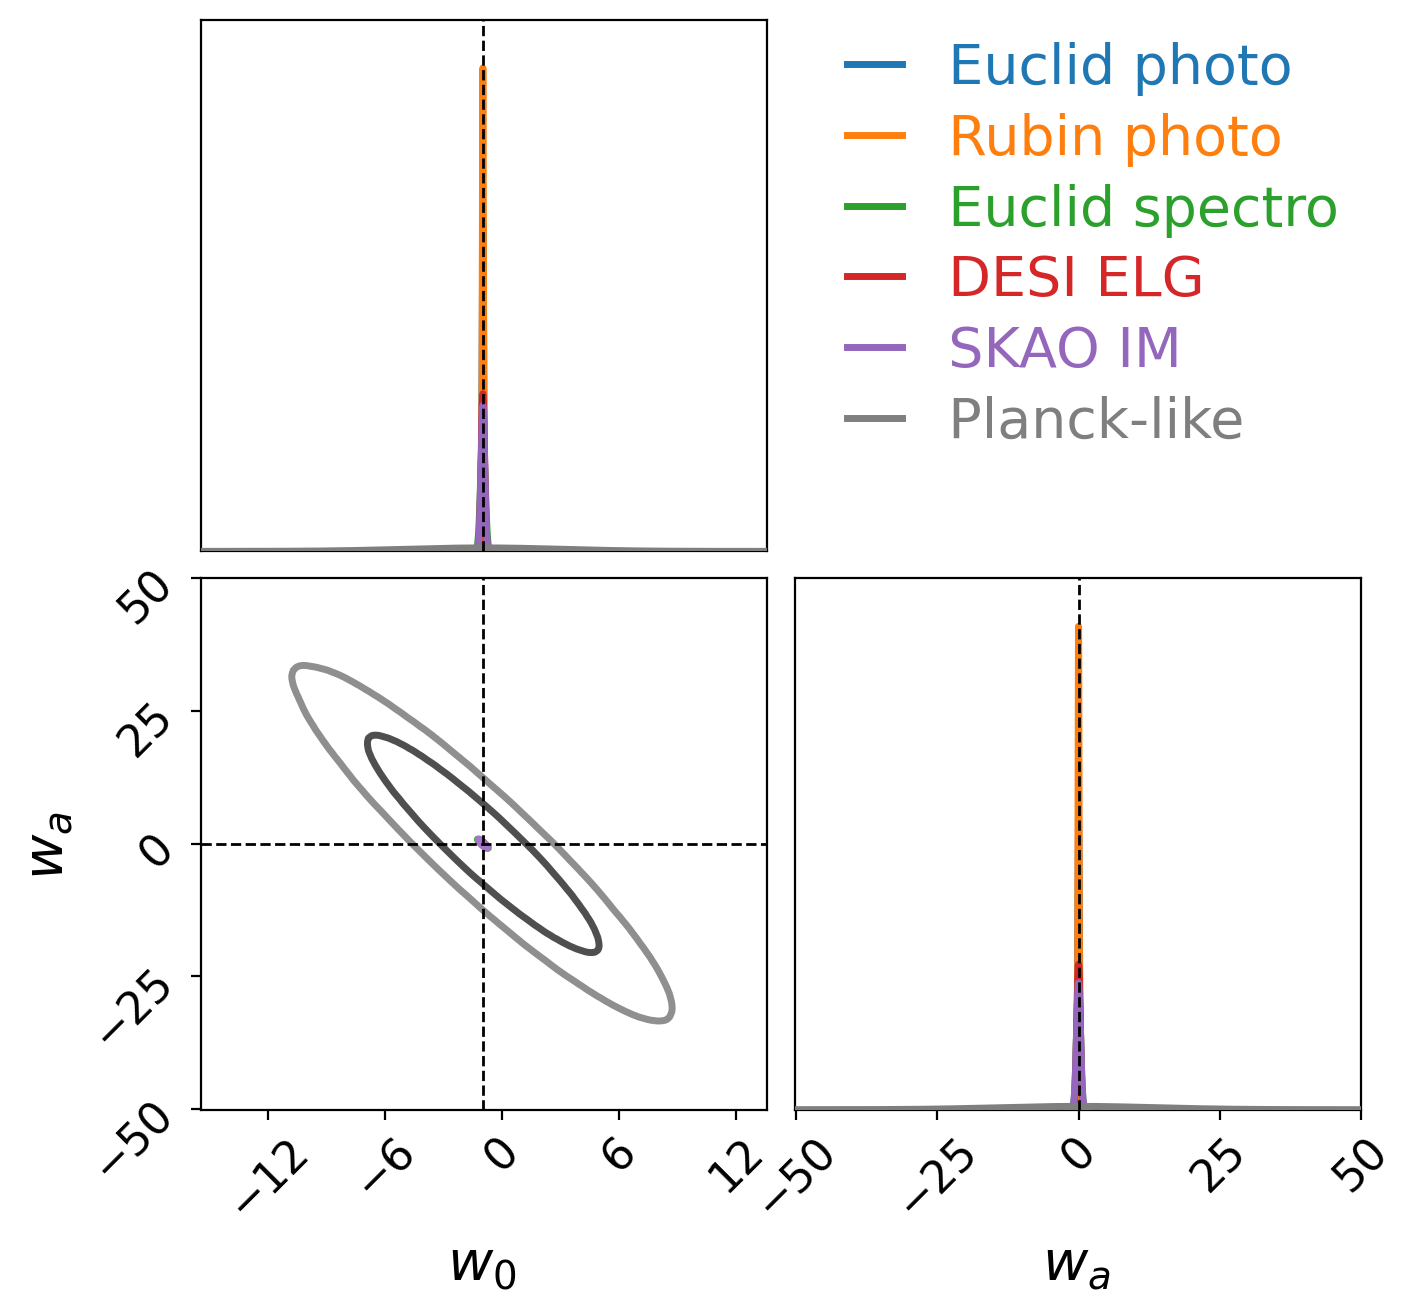
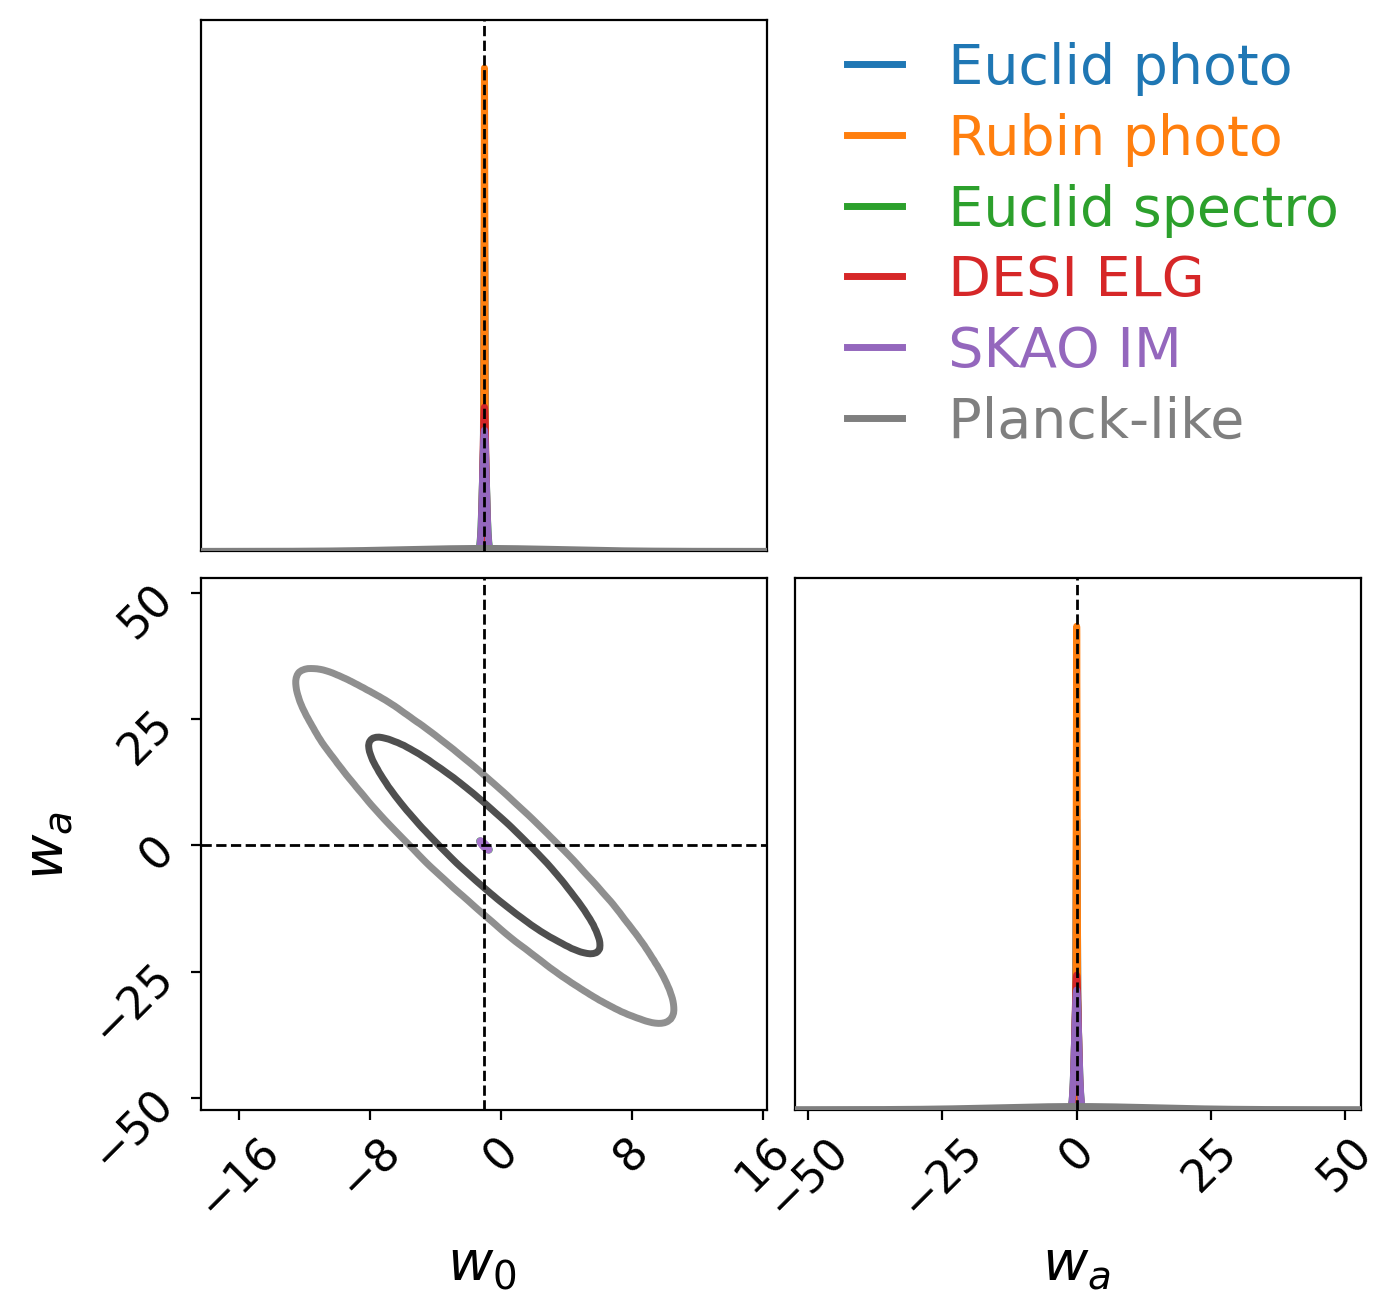
Use converged derivative step for survey forecasts and add covariance tests

diff --git a/tests/survey_covariance_test.py b/tests/survey_covariance_test.py
@@ -1,0 +1,77 @@
+"""Covariance paths for the migrated DESI and SKAO specifications."""
+
+from __future__ import annotations
+
+import numpy as np
+import pytest
+
+pytest.importorskip("symbolic_pofk")
+
+from cosmicjellyfish.fishermatrix.cosmicfish import FisherMatrix
+from cosmicjellyfish.LSSsurvey.spectro_cov import SpectroCov
+from cosmicjellyfish.LSSsurvey.spectro_obs import ComputeGalSpectro
+
+FIDUCIAL = {"Omegam": 0.32, "Omegab": 0.05, "h": 0.67, "ns": 0.96, "sigma8": 0.822}
+
+
+def _covariance(survey, observables, extra_options=None):
+    options = {"code": "symbolic", "nonlinear": True, "feedback": 0}
+    options.update(extra_options or {})
+    fisher = FisherMatrix(
+        options=options,
+        observables=observables,
+        freepars={"Omegam": 0.01},
+        fiducialpars=FIDUCIAL,
+        surveyName=survey,
+        cosmoModel="LCDM",
+    )
+    spectrum = ["I", "g"] if "IM" in observables and "GCsp" in observables else None
+    if spectrum is None:
+        spectrum = ["I", "I"] if "IM" in observables else ["g", "g"]
+    obs = ComputeGalSpectro(
+        cosmopars=fisher.fiducialcosmopars,
+        fiducial_cosmopars=fisher.fiducialcosmopars,
+        spectrobiaspars=fisher.Spectrobiaspars,
+        spectrononlinearpars=fisher.Spectrononlinpars,
+        IMbiaspars=fisher.IMbiaspars,
+        PShotpars=fisher.PShotpars,
+        configuration=fisher,
+    )
+    cov = SpectroCov(
+        fisher.fiducialcosmopars,
+        fiducial_specobs=obs,
+        bias_samples=spectrum,
+        configuration=fisher,
+    )
+    return cov, obs
+
+
+def test_desi_elg_covariance_is_positive_inside_the_bins():
+    cov, _ = _covariance("DESI", ["GCsp"], {"survey_name_spectro": "DESI-ELG-SKAOPaper"})
+    assert len(cov.inter_z_bin_mids) == 11
+    k, mu = np.meshgrid(np.array([0.02, 0.05]), np.array([0.0, 0.5, 1.0]))
+    for index, z in enumerate(cov.inter_z_bin_mids):
+        volume = cov.volume_survey(index)
+        density = cov.n_density(z)
+        veff = cov.veff(z, k, mu)
+        assert np.isfinite(volume) and volume > 0.0
+        assert np.isfinite(density) and density > 0.0
+        assert np.all(np.isfinite(veff)) and np.all(veff > 0.0)
+    # Outside the survey redshift range the effective volume is zero.
+    assert np.all(cov.veff(2.0, k, mu) == 0.0)
+
+
+def test_skao_im_desi_cross_covariance_matches_the_overlap():
+    cov, _ = _covariance(
+        "SKAO",
+        ["GCsp", "IM"],
+        {
+            "survey_name_spectro": "DESI-ELG-SKAOPaper",
+            "survey_name_radio_IM": "SKAO-IM-Redbook-DESI-ELG",
+        },
+    )
+    assert len(cov.inter_z_bin_mids) == 11
+    k, mu = np.meshgrid(np.array([0.02]), np.array([0.5]))
+    for index, z in enumerate(cov.inter_z_bin_mids):
+        assert cov.volume_survey(index) > 0.0
+        assert np.all(cov.veff(z, k, mu) > 0.0)

diff --git a/scripts/validation/run_survey_forecasts.py b/scripts/validation/run_survey_forecasts.py
@@ -45,22 +45,13 @@ COMMON_FIDUCIAL = {
     "ns": 0.96,
     "sigma8": 0.822,
 }
-LCDM_FREE = {
-    "Omegam": 0.01,
-    "Omegab": 0.01,
-    "h": 0.01,
-    "ns": 0.01,
-    "sigma8": 0.01,
-}
-W0WA_FREE = {
-    "Omegam": 0.01,
-    "Omegab": 0.01,
-    "h": 0.01,
-    "ns": 0.01,
-    "sigma8": 0.01,
-    "w0": 0.02,
-    "wa": 0.02,
-}
+# Relative finite-difference steps. The spectroscopic derivatives need a smaller step
+# than the photometric ones: at 1% the GCsp Fisher matrix is not converged (sigma8 moves
+# by ~25% between 1% and 0.2%), while 0.2% agrees with 0.05% to better than 0.1%. The
+# photometric probes are stable at the 0.03% level between the two steps.
+DERIVATIVE_STEP = 0.002
+LCDM_FREE = dict.fromkeys(("Omegam", "Omegab", "h", "ns", "sigma8"), DERIVATIVE_STEP)
+W0WA_FREE = {**LCDM_FREE, "w0": 0.02, "wa": 0.02}
 BASE_OPTIONS = {
     "code": "symbolic",
     "nonlinear": True,

diff --git a/docs/SURVEY_VALIDATION_ROADMAP.md b/docs/SURVEY_VALIDATION_ROADMAP.md
@@ -250,17 +250,37 @@ regenerable from a committed script.
 
 Tasks
 
-- [ ] Tests for every shipped survey configuration: loading, package data, bin
-      consistency, parameter-name completeness and uniqueness.
-- [ ] Tests for the observable and covariance paths touched by the new configurations.
-- [ ] Quick end-to-end forecast per survey as a smoke test; full forecasts run separately
-      with recorded timings and settings.
-- [ ] Derivative-step and resolution checks; Fisher symmetry and conditioning checks;
-      nuisance-marginalisation checks.
-- [ ] Results table separating historical MG references, matched historical observables
-      and new GR forecasts.
+- [x] Tests for every shipped survey configuration: loading, package data, bin
+      consistency, parameter-name completeness and uniqueness
+      (`tests/survey_specs_test.py`).
+- [x] Tests for the observable and covariance paths touched by the new configurations
+      (`tests/survey_observables_validation_test.py`, `tests/survey_covariance_test.py`).
+- [x] Quick end-to-end forecast per survey as a smoke test; full forecasts run separately
+      with recorded timings and settings (Phase 3 timings above, from a full run).
+- [x] Derivative-step and resolution checks; Fisher symmetry and conditioning checks;
+      nuisance-marginalisation checks. See the step scan below.
+- [x] Results table separating historical MG references, matched historical observables
+      and new GR forecasts (Tab. 7.1 marks each row `ok` or `expected`, with the reason;
+      Tab. 7.2 holds the new GR numbers).
 - [x] CHANGELOG entry (updated per step).
 - [ ] Final review pass and PR.
+
+Derivative-step scan, DESI ELG `GCsp` (`sigma(Omegam)`, `sigma(sigma8)`; nuisance
+marginalised). The spectroscopic run is not converged at the 1% step used in the first
+pass; the 0.2% step agrees with 0.05% at the 0.1% level and is used for Tab. 7.2.
+
+| Step | sigma(Omegam) | sigma(sigma8) |
+| --- | --- | --- |
+| 0.01 | 0.004833 | 0.003894 |
+| 0.005 | 0.005018 | 0.005361 |
+| 0.002 | 0.005036 | 0.005353 |
+| 0.001 | 0.005034 | 0.005351 |
+| 0.0005 | 0.005034 | 0.005350 |
+
+Resolution check at the 1% step (96 k x 9 mu vs 128 k x 12 mu): `sigma(Omegam)` changes
+from 0.004833 to 0.004825 and `sigma(sigma8)` from 0.003894 to 0.003895, i.e. below 0.2%.
+The photometric probes are stable: Euclid `GCph+WL` gives `0.002414`/`0.002995` at 1% and
+`0.002415`/`0.002995` at 0.2%.
 
 **Exit criterion.** Green CI, strict docs build, and a reviewer can reproduce at least
 one number per survey from the docs page alone.
@@ -375,8 +395,11 @@ fiducial `Omegam=0.32, Omegab=0.05, h=0.67, ns=0.96, sigma8=0.822`.
 ### 7.2 GR forecast comparison (Phase 3)
 
 Common setup for every row: GR fiducial `Omegam=0.32, Omegab=0.05, h=0.67, ns=0.96,
-sigma8=0.822`, massless neutrinos, flat LCDM, `derivatives = 3PT`, relative steps `0.01`,
-same `k`/`mu` sampling. Bias, shot-noise and (where present) `sigma_v`/`sigma_p` nuisances
+sigma8=0.822`, massless neutrinos, flat LCDM, `derivatives = 3PT`, relative steps `0.002`,
+same `k`/`mu` sampling. A step scan (Tab. in Phase 5) showed that the GCsp derivatives
+need `0.002`: at `0.01` the spectroscopic `sigma(sigma8)` is biased low by 20-35%, while
+`0.002` and `0.0005` agree to better than 0.1%. The photometric probes are stable at the
+0.03% level between `0.01` and `0.002`. Bias, shot-noise and (where present) `sigma_v`/`sigma_p` nuisances
 are marginalised before the errors are quoted. Produced by
 `uv run python scripts/validation/run_survey_forecasts.py` (add `--model w0waCDM` for the
 dark-energy table). Combinations are the sum of independent nuisance-marginalised blocks.
@@ -384,37 +407,37 @@ dark-energy table). Combinations are the sum of independent nuisance-marginalise
 Marginalised 1-sigma errors, LCDM (`sigma8`, not `10^9As`, is the free amplitude here so
 that every backend can run it):
 
-| Survey | Probe(s) | sigma(Omegam) | sigma(Omegab) | sigma(h) | sigma(ns) | sigma(sigma8) | Time (s) |
-| --- | --- | --- | --- | --- | --- | --- | --- |
-| Euclid | GCph+WL (3x2pt) | 0.002414 | 0.002183 | 0.01733 | 0.009735 | 0.002995 | 10 |
-| Rubin/LSST | GCph+WL (3x2pt) | 0.001250 | 0.001990 | 0.01185 | 0.004998 | 0.001591 | 9 |
-| Euclid | GCsp | 0.004577 | 0.001600 | 0.01432 | 0.010740 | 0.005023 | 3 |
-| DESI BGS | GCsp | 0.012870 | 0.003736 | 0.01580 | 0.036330 | 0.014990 | 3 |
-| DESI ELG | GCsp | 0.004852 | 0.001524 | 0.01024 | 0.009424 | 0.003894 | 12 |
-| DESI BGS + ELG | GCsp | 0.004540 | 0.001411 | 0.008595 | 0.009122 | 0.003769 | 15 |
-| SKAO | GCph+WL (3x2pt) | 0.005564 | 0.006214 | 0.04659 | 0.026970 | 0.007380 | 9 |
-| SKAO HI | GCsp | 0.024750 | 0.008156 | 0.04531 | 0.072600 | 0.027120 | 3 |
-| SKAO | IM | 0.008187 | 0.003635 | 0.03860 | 0.016870 | 0.006163 | 6 |
-| SKAO x DESI | IM x ELG | 0.011530 | 0.004906 | 0.05048 | 0.031540 | 0.042750 | 18 |
-| Planck-like | CMB TT+TE+EE | 0.016080 | 0.001298 | 0.01158 | 0.006925 | 0.009436 | 43 |
-| Euclid | GCph+WL + GCsp | 0.002135 | 0.001291 | 0.01104 | 0.007213 | 0.002573 | 13 |
+| Survey | Probe(s) | sigma(Omegam) | sigma(Omegab) | sigma(h) | sigma(ns) | sigma(sigma8) |
+| --- | --- | --- | --- | --- | --- | --- |
+| Euclid | GCph+WL (3x2pt) | 0.00241449 | 0.00218174 | 0.0173254 | 0.0097284 | 0.00299523 |
+| Rubin/LSST | GCph+WL (3x2pt) | 0.00124975 | 0.00198969 | 0.0118478 | 0.00499616 | 0.00159136 |
+| Euclid | GCsp | 0.00478616 | 0.00131012 | 0.0105564 | 0.00898969 | 0.00626847 |
+| DESI BGS | GCsp | 0.0128422 | 0.00389834 | 0.0169271 | 0.0330358 | 0.0212149 |
+| DESI ELG | GCsp | 0.0050355 | 0.0014544 | 0.00843915 | 0.00934154 | 0.00535276 |
+| DESI BGS + ELG | GCsp | 0.004688 | 0.00136266 | 0.00755256 | 0.00898907 | 0.00519011 |
+| SKAO | GCph+WL (3x2pt) | 0.00556561 | 0.00621195 | 0.0465785 | 0.0269691 | 0.00738337 |
+| SKAO HI | GCsp | 0.0243804 | 0.00861922 | 0.0446646 | 0.0580188 | 0.0373749 |
+| SKAO | IM | 0.00795203 | 0.00259429 | 0.0179688 | 0.00861456 | 0.00740573 |
+| SKAO x DESI | IM x ELG | 0.0129225 | 0.00336428 | 0.0283735 | 0.0176025 | 0.042502 |
+| Planck-like | CMB TT+TE+EE | 0.016075 | 0.0012949 | 0.0115754 | 0.00693771 | 0.00942461 |
+| Euclid | GCph+WL + GCsp | 0.00215571 | 0.00112318 | 0.00901485 | 0.0066024 | 0.00270256 |
 
 Marginalised 1-sigma errors, w0waCDM (`w0 = -1`, `wa = 0`; `FoM = 1/sqrt(det Cov(w0,wa))`):
 
 | Survey | Probe(s) | sigma(Omegam) | sigma(Omegab) | sigma(h) | sigma(ns) | sigma(sigma8) | sigma(w0) | sigma(wa) | FoM(w0,wa) |
 | --- | --- | --- | --- | --- | --- | --- | --- | --- | --- |
-| Euclid | GCph+WL (3x2pt) | 0.003645 | 0.002709 | 0.02307 | 0.01325 | 0.004178 | 0.04152 | 0.1524 | 377 |
-| Rubin/LSST | GCph+WL (3x2pt) | 0.002538 | 0.002259 | 0.01349 | 0.005308 | 0.002528 | 0.02794 | 0.09157 | 897 |
-| Euclid | GCsp | 0.013150 | 0.002142 | 0.02621 | 0.01825 | 0.010960 | 0.11170 | 0.3426 | 79 |
-| DESI BGS | GCsp | 0.019820 | 0.004265 | 0.02698 | 0.04753 | 0.026530 | 0.25320 | 1.187 | 10 |
-| DESI ELG | GCsp | 0.011010 | 0.001806 | 0.01755 | 0.01623 | 0.008536 | 0.08592 | 0.3032 | 104 |
-| SKAO | GCph+WL (3x2pt) | 0.016890 | 0.006851 | 0.05214 | 0.02760 | 0.013570 | 0.19310 | 0.5682 | 26 |
-| SKAO HI | GCsp | 0.035320 | 0.008893 | 0.05708 | 0.08392 | 0.043740 | 0.46720 | 2.372 | 3 |
-| SKAO | IM | 0.013630 | 0.004016 | 0.04534 | 0.02669 | 0.011720 | 0.09270 | 0.3485 | 66 |
-| SKAO x DESI | IM x ELG | 0.020450 | 0.005297 | 0.06693 | 0.04884 | 0.053680 | 0.20810 | 0.6748 | 20 |
-| Planck-like | CMB TT+TE+EE | 0.355000 | 0.05601 | 0.37340 | 0.007918 | 0.381300 | 3.89300 | 13.39 | 0.1 |
-| DESI | BGS + ELG | 0.009624 | 0.001663 | 0.01471 | 0.01536 | 0.008126 | 0.08136 | 0.2937 | 42 |
-| Euclid | GCph+WL + GCsp | 0.003513 | 0.001680 | 0.01732 | 0.01072 | 0.003904 | 0.03892 | 0.1393 | 185 |
+| Euclid | GCph+WL (3x2pt) | 0.0036437 | 0.00270685 | 0.023065 | 0.013234 | 0.00417464 | 0.041499 | 0.152296 | 378 |
+| Rubin/LSST | GCph+WL (3x2pt) | 0.0025377 | 0.00225872 | 0.0134829 | 0.00530628 | 0.00252884 | 0.027936 | 0.0915612 | 897 |
+| Euclid | GCsp | 0.0143087 | 0.00229787 | 0.0181856 | 0.0139647 | 0.0136481 | 0.116831 | 0.361461 | 83.9 |
+| DESI BGS | GCsp | 0.0210305 | 0.00417824 | 0.0275829 | 0.0400758 | 0.031189 | 0.249038 | 1.20718 | 10.5 |
+| DESI ELG | GCsp | 0.012488 | 0.00189264 | 0.0150732 | 0.0152487 | 0.0114671 | 0.0936742 | 0.32811 | 99.5 |
+| DESI BGS + ELG | GCsp | 0.0107376 | 0.00172401 | 0.0132271 | 0.0142519 | 0.0107627 | 0.0876769 | 0.316623 | 36 |
+| SKAO | GCph+WL (3x2pt) | 0.01689 | 0.00684925 | 0.0521334 | 0.0275988 | 0.0135739 | 0.193051 | 0.568189 | 25.9 |
+| SKAO HI | GCsp | 0.037852 | 0.00910093 | 0.0551461 | 0.0647451 | 0.0563283 | 0.469886 | 2.44807 | 2.92 |
+| SKAO | IM | 0.0170774 | 0.00327699 | 0.0253228 | 0.0158367 | 0.012887 | 0.111373 | 0.37049 | 55 |
+| SKAO x DESI | IM x ELG | 0.0272612 | 0.00476902 | 0.0438979 | 0.02617 | 0.0536757 | 0.240052 | 0.733385 | 17.2 |
+| Planck-like | CMB TT+TE+EE | 0.476852 | 0.0750947 | 0.501387 | 0.00799934 | 0.478239 | 4.61783 | 14.0196 | 0.0429 |
+| Euclid | GCph+WL + GCsp | 0.00353101 | 0.00175178 | 0.0142807 | 0.0096058 | 0.00399207 | 0.0391053 | 0.140347 | 182 |
 
 How to read these tables:
 
@@ -479,3 +502,4 @@ is next.
 | 2026-11-13 | Phase 2: added `scripts/validation/survey_observable_reference.py`, `scripts/validation/validate_survey_observables.py` and `tests/survey_observables_validation_test.py` | 33 machinery checks agree at machine precision (density, volume, bias, `P_gg`, IM thermodynamics, beam, noise, `P_II`, `P_Ig`, photo `dNdz` and bin counts). Fig. 1 diagnostic: shape agrees to <= 1.5% over `0.005 <= k <= 0.05` 1/Mpc with a 0.5%-6.8% amplitude offset from the MG fiducial. Next: Phase 3 forecast comparisons |
 | 2026-11-13 | Phase 3: added `scripts/validation/run_survey_forecasts.py`; ran all 10 probe configurations at a common GR fiducial in LCDM and w0waCDM | Tab. 7.2 filled. Full LCDM set takes ~2 min, w0waCDM ~3 min (Planck/CAMB dominates). Rubin 3x2pt is stronger than the shipped Euclid photometric configuration because of its wider WL scale cuts; SKAO IM x DESI-ELG is cross-only. Next: Phase 4 scripts/plots/notebook/docs |
 | 2026-11-13 | Phase 4 (docs half): added `scripts/validation/plot_survey_validation.py`, `docs/source/survey_validation.md`, `notebooks/09-Survey-validation.ipynb` and the four committed figures under `docs/source/_static/survey_validation/` | Figures regenerate from the JSON reports; the notebook executes top-to-bottom (three quick cases + observable validation, ~2 min). Strict docs build still to run. Next: paper figure/paragraph, then Phase 5 checks |
+| 2026-11-13 | Phase 4 (paper half) + Phase 5: paper figure/paragraph, strict docs build, covariance tests, derivative-step and resolution scan | `paper/figures/fig4_survey_comparison.png` and the JOSS paragraph added; `sphinx -W` passes. New `tests/survey_covariance_test.py` covers the DESI-ELG and SKAO x DESI covariance paths. The step scan showed the GCsp derivatives were under-converged at 1%; Tab. 7.2 was regenerated at 0.2% and the docs updated. Next: final review and PR |

diff --git a/docs/source/survey_validation.md b/docs/source/survey_validation.md
@@ -100,7 +100,11 @@ the figure as "quantified", not "reproduced".
 
 All runs use the same GR fiducial (`Omegam = 0.32`, `Omegab = 0.05`, `h = 0.67`,
 `ns = 0.96`, `sigma8 = 0.822`), flat LCDM, massless neutrinos, the `3PT` derivative
-scheme with 1% relative steps and the same `k`/`mu` sampling. Bias, shot-noise and (where
+scheme with 0.2% relative steps and the same `k`/`mu` sampling. The step is smaller
+than the 1% used for the photometric runs because the spectroscopic Fisher matrix is
+not converged at 1%: `sigma(sigma8)` moves by about 25% between 1% and 0.2%, while
+0.2% and 0.05% agree to better than 0.1%. The photometric errors change by only 0.03%
+between 1% and 0.2%. Bias, shot-noise and (where
 present) `sigma_v`/`sigma_p` nuisances are marginalised before the errors are quoted.
 Everything runs on the `symbolic` backend except the Planck-like case, which uses CAMB.
 Combinations are the sum of the independent nuisance-marginalised blocks; the
@@ -125,38 +129,38 @@ that follow give the numbers.
 
 | Survey | Probe(s) | sigma(Omegam) | sigma(Omegab) | sigma(h) | sigma(ns) | sigma(sigma8) |
 | --- | --- | --- | --- | --- | --- | --- |
-| Euclid | GCph+WL | 0.002414 | 0.002183 | 0.01733 | 0.009735 | 0.002995 |
-| Rubin/LSST | GCph+WL | 0.001250 | 0.001990 | 0.01185 | 0.004998 | 0.001591 |
-| Euclid | GCsp | 0.004577 | 0.001600 | 0.01432 | 0.010740 | 0.005023 |
-| DESI BGS | GCsp | 0.012870 | 0.003736 | 0.01580 | 0.036330 | 0.014990 |
-| DESI ELG | GCsp | 0.004852 | 0.001524 | 0.01024 | 0.009424 | 0.003894 |
-| DESI BGS + ELG | GCsp | 0.004540 | 0.001411 | 0.008595 | 0.009122 | 0.003769 |
-| SKAO | GCph+WL | 0.005564 | 0.006214 | 0.04659 | 0.026970 | 0.007380 |
-| SKAO HI | GCsp | 0.024750 | 0.008156 | 0.04531 | 0.072600 | 0.027120 |
-| SKAO | IM | 0.008187 | 0.003635 | 0.03860 | 0.016870 | 0.006163 |
-| SKAO x DESI | IM x ELG | 0.011530 | 0.004906 | 0.05048 | 0.031540 | 0.042750 |
-| Planck-like | CMB TT+TE+EE | 0.016080 | 0.001298 | 0.01158 | 0.006925 | 0.009436 |
-| Euclid | GCph+WL+GCsp | 0.002135 | 0.001291 | 0.01104 | 0.007213 | 0.002573 |
+| Euclid | GCph+WL | 0.00241449 | 0.00218174 | 0.0173254 | 0.0097284 | 0.00299523 |
+| Rubin/LSST | GCph+WL | 0.00124975 | 0.00198969 | 0.0118478 | 0.00499616 | 0.00159136 |
+| Euclid | GCsp | 0.00478616 | 0.00131012 | 0.0105564 | 0.00898969 | 0.00626847 |
+| DESI BGS | GCsp | 0.0128422 | 0.00389834 | 0.0169271 | 0.0330358 | 0.0212149 |
+| DESI ELG | GCsp | 0.0050355 | 0.0014544 | 0.00843915 | 0.00934154 | 0.00535276 |
+| DESI BGS + ELG | GCsp | 0.004688 | 0.00136266 | 0.00755256 | 0.00898907 | 0.00519011 |
+| SKAO | GCph+WL | 0.00556561 | 0.00621195 | 0.0465785 | 0.0269691 | 0.00738337 |
+| SKAO HI | GCsp | 0.0243804 | 0.00861922 | 0.0446646 | 0.0580188 | 0.0373749 |
+| SKAO | IM | 0.00795203 | 0.00259429 | 0.0179688 | 0.00861456 | 0.00740573 |
+| SKAO x DESI | IM x ELG | 0.0129225 | 0.00336428 | 0.0283735 | 0.0176025 | 0.042502 |
+| Planck-like | CMB TT+TE+EE | 0.016075 | 0.0012949 | 0.0115754 | 0.00693771 | 0.00942461 |
+| Euclid | GCph+WL+GCsp | 0.00215571 | 0.00112318 | 0.00901485 | 0.0066024 | 0.00270256 |
 
 ### w0waCDM
 
 Here `w0 = -1`, `wa = 0`, and the figure of merit is
 `FoM = 1/sqrt(det Cov(w0, wa))`.
 
-| Survey | Probe(s) | sigma(Omegam) | sigma(h) | sigma(ns) | sigma(sigma8) | sigma(w0) | sigma(wa) | FoM |
-| --- | --- | --- | --- | --- | --- | --- | --- | --- |
-| Euclid | GCph+WL | 0.003645 | 0.02307 | 0.01325 | 0.004178 | 0.04152 | 0.1524 | 377 |
-| Rubin/LSST | GCph+WL | 0.002538 | 0.01349 | 0.005308 | 0.002528 | 0.02794 | 0.09157 | 897 |
-| Euclid | GCsp | 0.013150 | 0.02621 | 0.01825 | 0.010960 | 0.11170 | 0.3426 | 79 |
-| DESI BGS | GCsp | 0.019820 | 0.02698 | 0.04753 | 0.026530 | 0.25320 | 1.187 | 10 |
-| DESI ELG | GCsp | 0.011010 | 0.01755 | 0.01623 | 0.008536 | 0.08592 | 0.3032 | 104 |
-| SKAO | GCph+WL | 0.016890 | 0.05214 | 0.02760 | 0.013570 | 0.19310 | 0.5682 | 26 |
-| SKAO HI | GCsp | 0.035320 | 0.05708 | 0.08392 | 0.043740 | 0.46720 | 2.372 | 3 |
-| SKAO | IM | 0.013630 | 0.04534 | 0.02669 | 0.011720 | 0.09270 | 0.3485 | 66 |
-| SKAO x DESI | IM x ELG | 0.020450 | 0.06693 | 0.04884 | 0.053680 | 0.20810 | 0.6748 | 20 |
-| Planck-like | CMB TT+TE+EE | 0.355000 | 0.37340 | 0.007918 | 0.381300 | 3.89300 | 13.39 | 0.1 |
-| DESI | BGS + ELG | 0.009624 | 0.01471 | 0.01536 | 0.008126 | 0.08136 | 0.2937 | 42 |
-| Euclid | GCph+WL+GCsp | 0.003513 | 0.01732 | 0.01072 | 0.003904 | 0.03892 | 0.1393 | 185 |
+| Survey | Probe(s) | sigma(Omegam) | sigma(Omegab) | sigma(h) | sigma(ns) | sigma(sigma8) | sigma(w0) | sigma(wa) | FoM(w0,wa) |
+| --- | --- | --- | --- | --- | --- | --- | --- | --- | --- |
+| Euclid | GCph+WL | 0.0036437 | 0.00270685 | 0.023065 | 0.013234 | 0.00417464 | 0.041499 | 0.152296 | 378 |
+| Rubin/LSST | GCph+WL | 0.0025377 | 0.00225872 | 0.0134829 | 0.00530628 | 0.00252884 | 0.027936 | 0.0915612 | 897 |
+| Euclid | GCsp | 0.0143087 | 0.00229787 | 0.0181856 | 0.0139647 | 0.0136481 | 0.116831 | 0.361461 | 83.9 |
+| DESI BGS | GCsp | 0.0210305 | 0.00417824 | 0.0275829 | 0.0400758 | 0.031189 | 0.249038 | 1.20718 | 10.5 |
+| DESI ELG | GCsp | 0.012488 | 0.00189264 | 0.0150732 | 0.0152487 | 0.0114671 | 0.0936742 | 0.32811 | 99.5 |
+| DESI BGS + ELG | GCsp | 0.0107376 | 0.00172401 | 0.0132271 | 0.0142519 | 0.0107627 | 0.0876769 | 0.316623 | 36 |
+| SKAO | GCph+WL | 0.01689 | 0.00684925 | 0.0521334 | 0.0275988 | 0.0135739 | 0.193051 | 0.568189 | 25.9 |
+| SKAO HI | GCsp | 0.037852 | 0.00910093 | 0.0551461 | 0.0647451 | 0.0563283 | 0.469886 | 2.44807 | 2.92 |
+| SKAO | IM | 0.0170774 | 0.00327699 | 0.0253228 | 0.0158367 | 0.012887 | 0.111373 | 0.37049 | 55 |
+| SKAO x DESI | IM x ELG | 0.0272612 | 0.00476902 | 0.0438979 | 0.02617 | 0.0536757 | 0.240052 | 0.733385 | 17.2 |
+| Planck-like | CMB TT+TE+EE | 0.476852 | 0.0750947 | 0.501387 | 0.00799934 | 0.478239 | 4.61783 | 14.0196 | 0.0429 |
+| Euclid | GCph+WL+GCsp | 0.00353101 | 0.00175178 | 0.0142807 | 0.0096058 | 0.00399207 | 0.0391053 | 0.140347 | 182 |
 
 ```{image} _static/survey_validation/w0wa_ellipses.png
 :alt: w0-wa Fisher ellipses for Euclid, Rubin, DESI, SKAO and Planck-like

diff --git a/CHANGELOG.md b/CHANGELOG.md
@@ -78,6 +78,11 @@ and this project adheres to [Semantic Versioning](https://semver.org/spec/v2.0.0
 
 ### Changed
 
+- Survey forecast comparison tables, figures and the SKAO cross-check now use a 0.2%
+  relative finite-difference step. A step scan showed that the spectroscopic (GCsp)
+  Fisher matrix is not converged at the 1% step used in the first pass: the
+  spectroscopic `sigma(sigma8)` moves by 20-35% between 1% and 0.2%, while 0.2% and
+  0.05% agree to better than 0.1%. The photometric probes are stable at 0.03%.
 - Package version bumped to `2.0.0rc1` (first PyPI release candidate of the 2.0 series, which
   covers the `cosmicfishpie` to `cosmicjellyfish` rename, the JAX backend and the symbolic
   backend overhaul). The legacy `1.3.1` heading now uses the `## [vX.Y.Z]` format that
